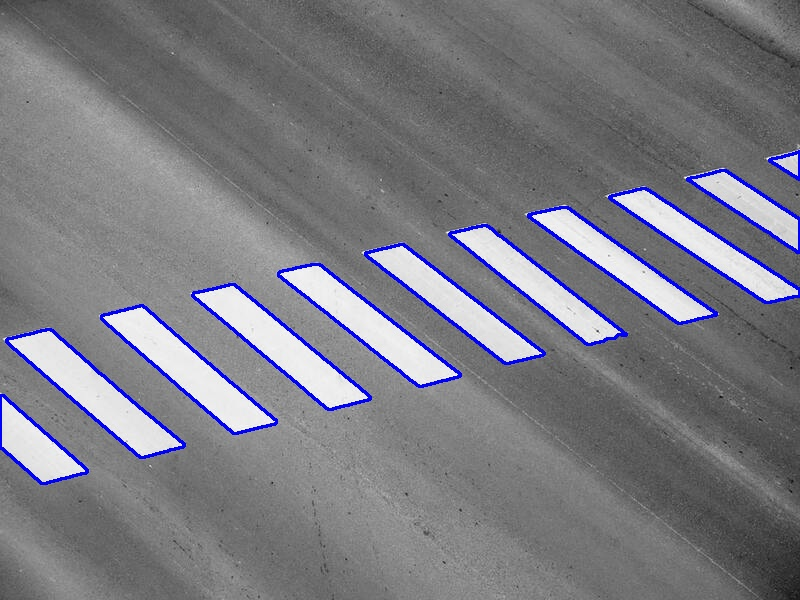
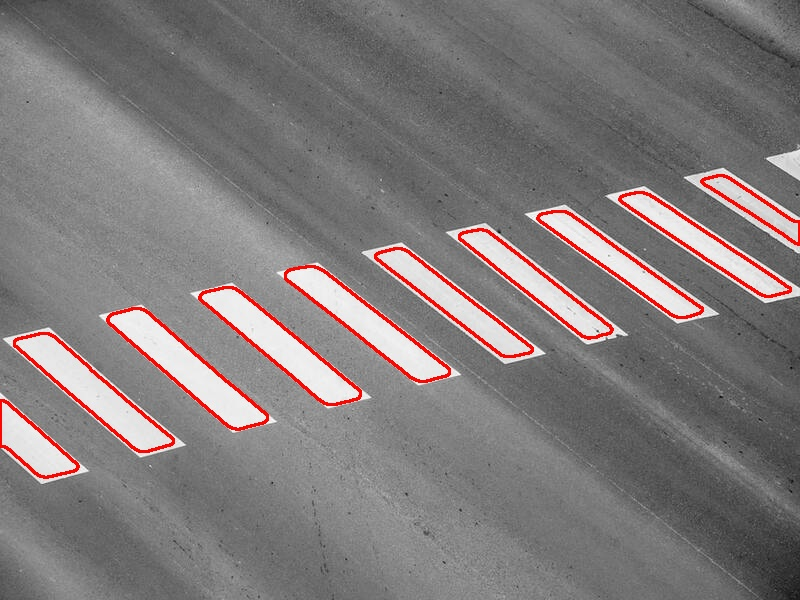
Images and pynb added

diff --git a/Scripts/finalMain.py b/Scripts/finalMain.py
@@ -24,32 +24,32 @@ for img_file in os.listdir(img_dir):
     gray = cv2.cvtColor(img, cv2.COLOR_BGR2GRAY)
 
     # Normalize the pixel values
-    gray_norm = np.divide(gray, 255)
+    gray_norm = np.divide(gray, 250)
 
     # Apply Gaussian smoothing
-    gray_blur = cv2.GaussianBlur(gray_norm, (5, 5), 70)
+    gray_blur = cv2.GaussianBlur(gray_norm, (17, 17), 400)
 
     # Apply thresholding
-    thresh = cv2.threshold(gray_blur, 0.7, 255, cv2.THRESH_BINARY)[1]
+    thresh = cv2.threshold(gray_blur, 0.8, 400, cv2.THRESH_BINARY)[1]
 
     # Apply morphology
-    kernel = cv2.getStructuringElement(cv2.MORPH_RECT, (4,10))
+    kernel = cv2.getStructuringElement(cv2.MORPH_RECT, (1,1))
     morph = cv2.morphologyEx(thresh.astype(np.uint8), cv2.MORPH_CLOSE, kernel)
 
-    # Find connected components
-    num_crossings, labels = cv2.connectedComponents(morph)
+    contours, hierarchy = cv2.findContours(morph, cv2.RETR_EXTERNAL, cv2.CHAIN_APPROX_SIMPLE)
 
-    # Subtract 1 from the number of crossings to exclude the background component
-    num_crossings -= 1
-    
-    # Draw the contours
-    contours, hierarchy = cv2.findContours(morph, cv2.RETR_TREE, cv2.CHAIN_APPROX_SIMPLE)
-    img_contours = cv2.drawContours(img.copy(), contours, -2, (255, 0, 0), 2)
+    # Draw contours on original image and count number of contours
+    num_contours = 0
+    for contour in contours:
+        area = cv2.contourArea(contour)
+        if area > 650:  # adjust threshold to detect zebra crossing lines accurately
+            cv2.drawContours(img, [contour], -2, (0, 5,255), 2)
+            num_contours += 1
 
     # Save the image with contours
     img_file_name = img_file
     img_file_path = os.path.join(preprocessed_dir, img_file_name)
-    cv2.imwrite(img_file_path, img_contours)
+    cv2.imwrite(img_file_path, img)
 
     # Print the number of crossings
-    print(f"Number of zebra crossings: {num_crossings}")
+    print(f"Number of zebra crossings: {num_contours}")

diff --git a/Scripts/main.py b/Scripts/main.py
@@ -21,27 +21,20 @@ for img_file in os.listdir(img_dir):
     # # Resize the image
     # img = cv2.resize(img, (800, 600))
 
-    # Convert image to grayscale
     gray = cv2.cvtColor(img, cv2.COLOR_BGR2GRAY)
 
-    # Normalize the pixel values
-    gray_norm = np.divide(gray, 255)
-
     # Apply Gaussian blur to remove noise
-    blur = cv2.GaussianBlur(gray_norm, (5, 5), 5)
-
-    # Convert the image to uint8 type
-    blur_uint8 = (blur * 255).astype(np.uint8)
+    blur = cv2.GaussianBlur(gray, (13, 13), 0)
 
     # Apply threshold using Otsu's method
-    thresh, binary = cv2.threshold(blur_uint8, 0.7, 255, cv2.THRESH_BINARY + cv2.THRESH_OTSU)
+    thresh, binary = cv2.threshold(blur, 0.1, 255, cv2.THRESH_BINARY + cv2.THRESH_OTSU)
 
     # Apply morphological opening to remove small objects
-    kernel = cv2.getStructuringElement(cv2.MORPH_RECT, (5, 5))
+    kernel = cv2.getStructuringElement(cv2.MORPH_RECT, (12, 12))
     opening = cv2.morphologyEx(binary, cv2.MORPH_OPEN, kernel)
 
     # Apply Canny edge detection algorithm
-    edges = cv2.Canny(opening, 100, 200)
+    edges = cv2.Canny(opening, 10, 10)
 
     # Find contours
     contours, hierarchy = cv2.findContours(edges, cv2.RETR_EXTERNAL, cv2.CHAIN_APPROX_SIMPLE)
@@ -50,12 +43,12 @@ for img_file in os.listdir(img_dir):
     num_contours = 0
     for contour in contours:
         area = cv2.contourArea(contour)
-        if area > 1000:  # adjust threshold to detect zebra crossing lines accurately
-            cv2.drawContours(img, [contour], -1, (0, 255, 0), 2)
+        if area > 10:  # adjust threshold to detect zebra crossing lines accurately
+            cv2.drawContours(img, [contour], 0, (100, 0, 0), 2)
             num_contours += 1
 
     # Print number of contours
-    print("Number of zebra crossing lines detected: " + str(num_contours))
+    print(f"Number of zebra crossing lines detected: {num_contours}")
     print("Image Processed.\n")
 
     # Save the image with contours

diff --git a/Scripts/main1.py b/Scripts/main1.py
@@ -26,7 +26,7 @@ contours, hierarchy = cv2.findContours(edges, cv2.RETR_EXTERNAL, cv2.CHAIN_APPRO
 num_contours = 0
 for contour in contours:
     area = cv2.contourArea(contour)
-    if area > 1000:  # adjust threshold to detect zebra crossing lines accurately
+    if area > 50:  # adjust threshold to detect zebra crossing lines accurately
         cv2.drawContours(img, [contour], 0, (33, 255, 0), 2)
         num_contours += 1
 
